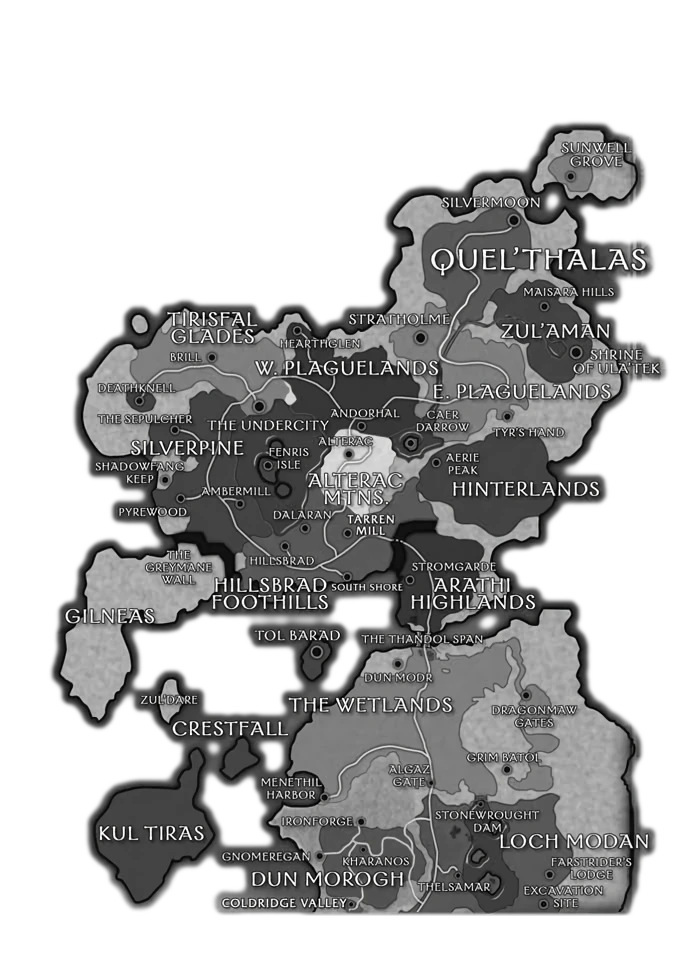
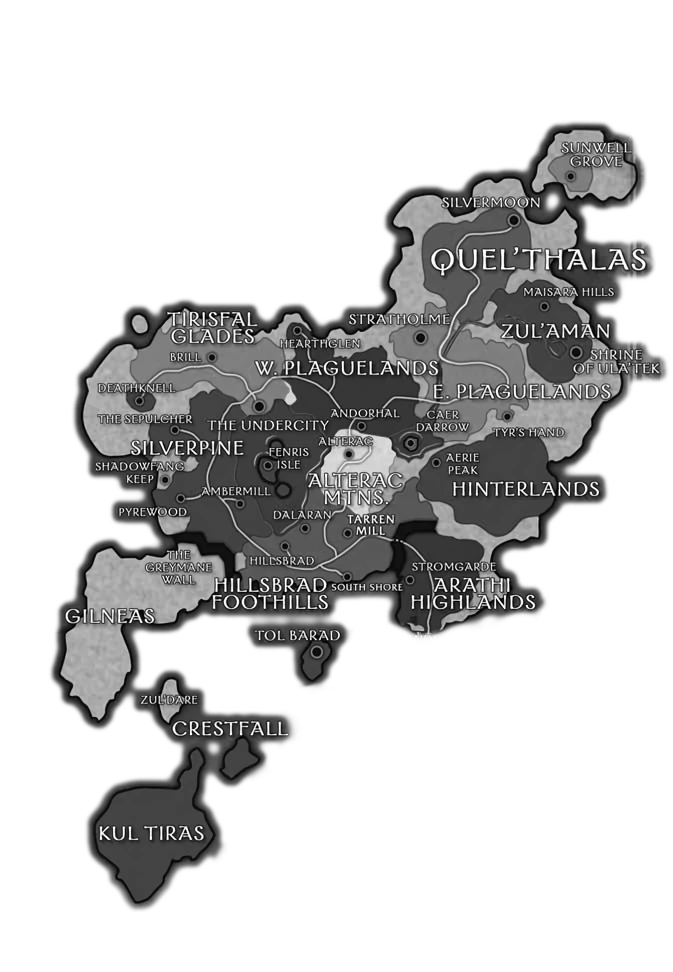
restitched Azeroth concept and manual maps

Changed region(s): [[0.312, 0.6173, 0.9985, 0.9568]]

diff --git a/index.html b/index.html
@@ -219,6 +219,7 @@ Selected layer
 <td>
 <label>Add layer: <select id="addlayer" onchange="addSelectedLayer()">
 <optgroup name="Azeroth" label="Concept maps">
+<option value="0.0.2001.10/Azeroth">October 2001 Design map</option>
 <option value="0.0.2004.0/Azeroth">Game manual map</option>
 </optgroup>
 <optgroup name="Azeroth" label="Terrain maps">
